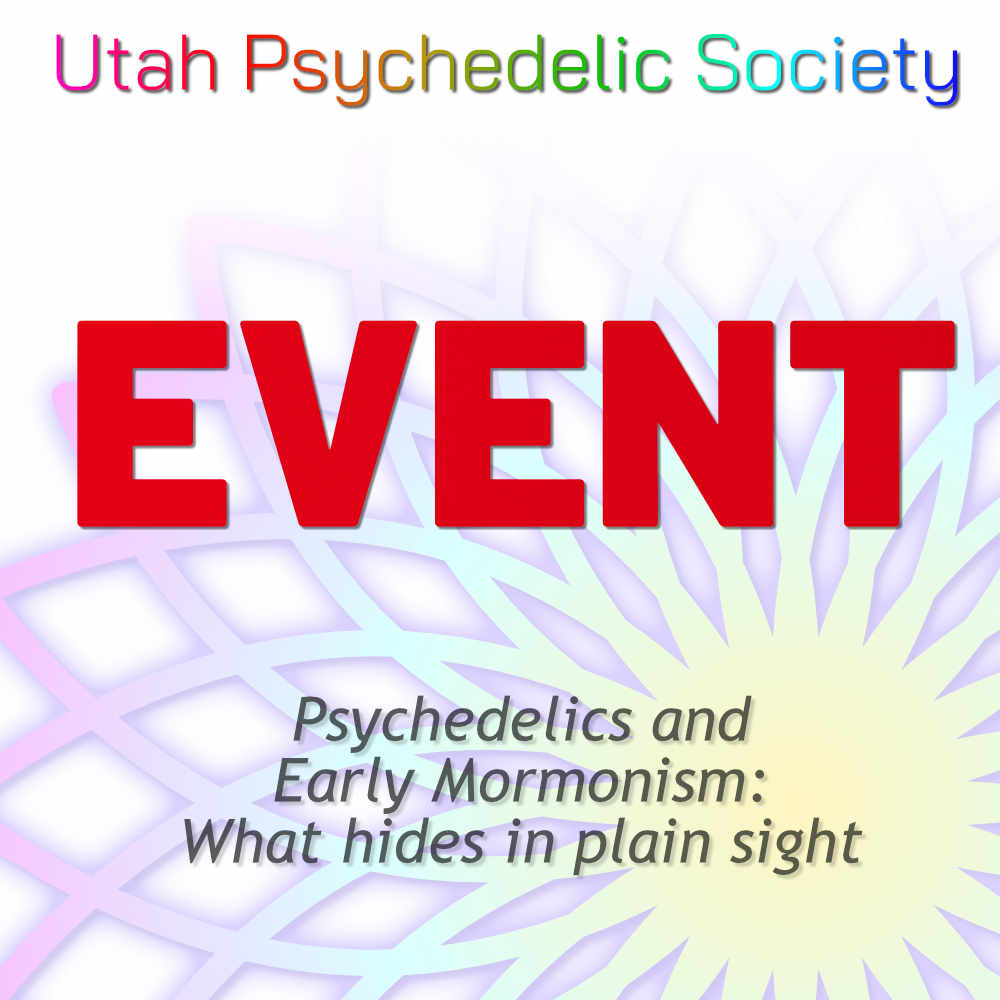
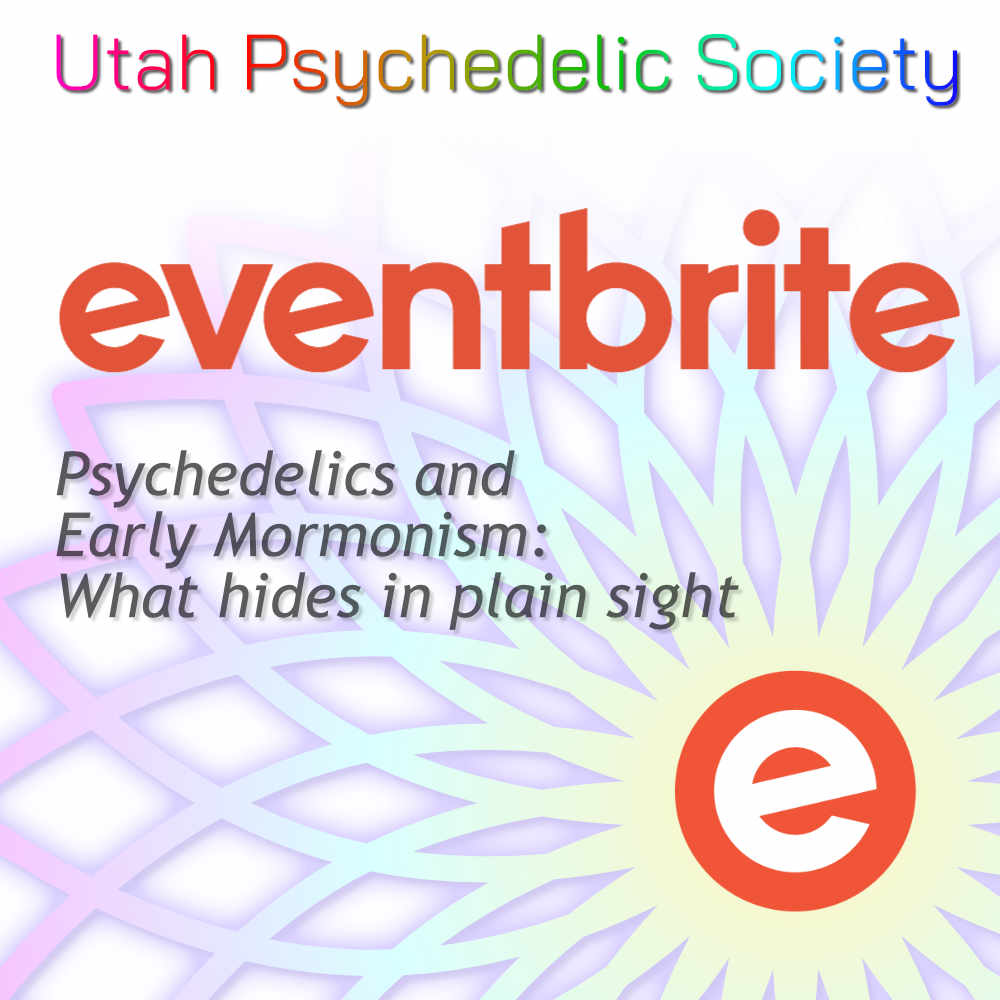
final

Changed region(s): [[0.031, 0.186, 0.961, 0.651], [0.186, 0.651, 0.93, 0.93]]

diff --git a/index.html b/index.html
@@ -11,13 +11,13 @@
 
 <body>
     <div id="meetup" class="linkBox">
-        <a href="https://www.meetup.com/Utah-Psychedelic-Society/">
+        <a href="https://www.meetup.com/Utah-Psychedelic-Society/events/267485966/?_xtd=gqFyqTI1ODk2MjQyNaFwpmlwaG9uZQ&from=ref" target="_blank">
             <img alt="Qries" src="/assets/images/meetup.jpg"
                 width=150" height="70">
         </a>
     </div>
     <div id="event" class="linkBox">
-        <a href="https://www.meetup.com/Utah-Psychedelic-Society/">
+        <a href="https://www.eventbrite.com/e/psychedelics-and-early-mormonism-what-hides-in-plain-sight-tickets-86967244369?fbclid=IwAR14U5upjgfdm8wjSxI5mPSjlMi46E4_nixbpEAyB6Dmm1MPmblReXPvR5I" target="_blank">
                 <img alt="Qries" src="/assets/images/event.jpg"
                     width=150" height="70">
             </a>

diff --git a/main.css b/main.css
@@ -1,5 +1,5 @@
 * {
-    background-color: aliceblue;
+    background-color: darkgray;
     margin: auto;
 }
 
@@ -14,10 +14,10 @@ div {
     width: 50%;
     height: 400px;
     margin-top: 50px;
+    border-radius: 30px;
 }
 
 img {
     width: 100%;
     height: 100%;
-    border-radius: 35px;
 }
